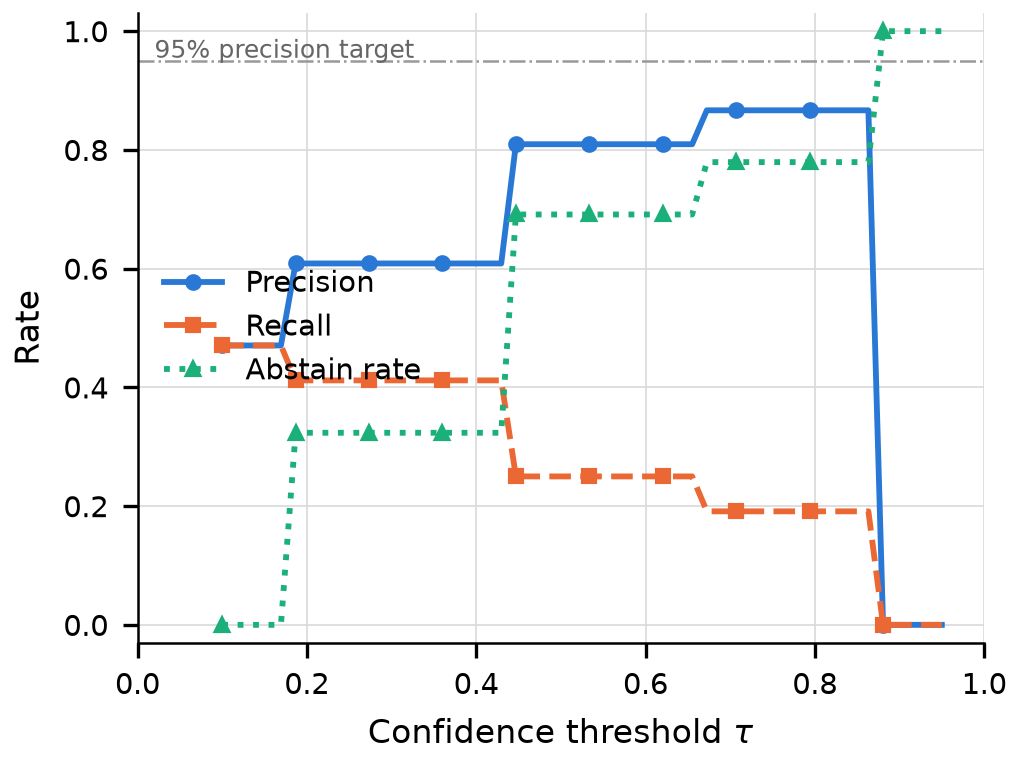
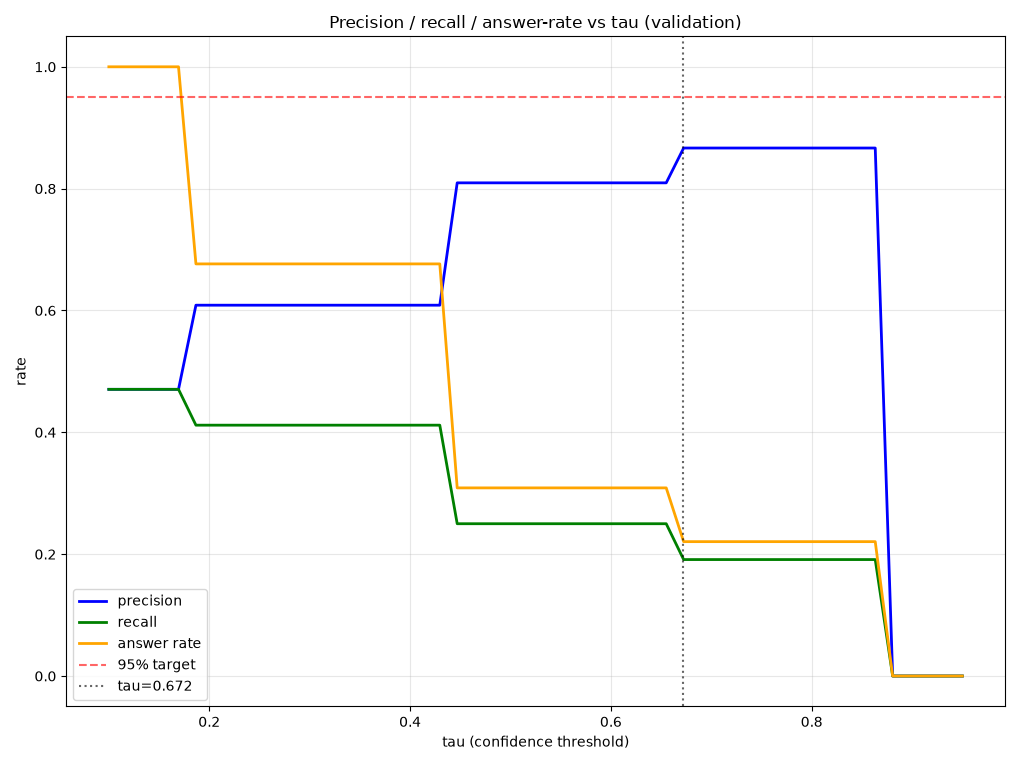
Fix plot_precision_tau figsize and regenerate a7_multisystem_precision_vs_tau.png
Root cause of the Task 0.5 finding: plot_precision_tau() used figsize=(7,5)
(1.4:1), but the published PNG is 1020x765 (4:3) — a different aspect
ratio, not just a dpi difference. The code that made the original is lost;
this sets figsize=(10.2,7.65) at dpi=100 = 1020x765 exactly.

Regenerated directly from the verified, byte-identical
docs/a7_multisystem_precision_vs_tau.csv (tau=0.672, per the committed
report) rather than rerunning the ~14min full training job — the plot is
a pure function of curve_df + tau, no retraining needed.

Claude-Session: https://claude.ai/code/session_016ShhHbLgf8FwXWSwwoD46x

diff --git a/ai-payment-reliability-engine/tools/train_triage_model.py b/ai-payment-reliability-engine/tools/train_triage_model.py
@@ -239,7 +239,7 @@ def plot_reliability(splits: dict, path: Path):
 def plot_precision_tau(curve_df: pd.DataFrame, tau: float, path: Path):
     if plt is None:
         return
-    fig, ax = plt.subplots(figsize=(7, 5))
+    fig, ax = plt.subplots(figsize=(10.2, 7.65))  # 1020x765 at dpi=100
     ax.plot(curve_df["tau"], curve_df["precision"], "b-", lw=2, label="precision")
     ax.plot(curve_df["tau"], curve_df["recall"], "g-", lw=2, label="recall")
     ax.plot(curve_df["tau"], 1 - curve_df["abstain_rate"], "orange", lw=2, label="answer rate")
